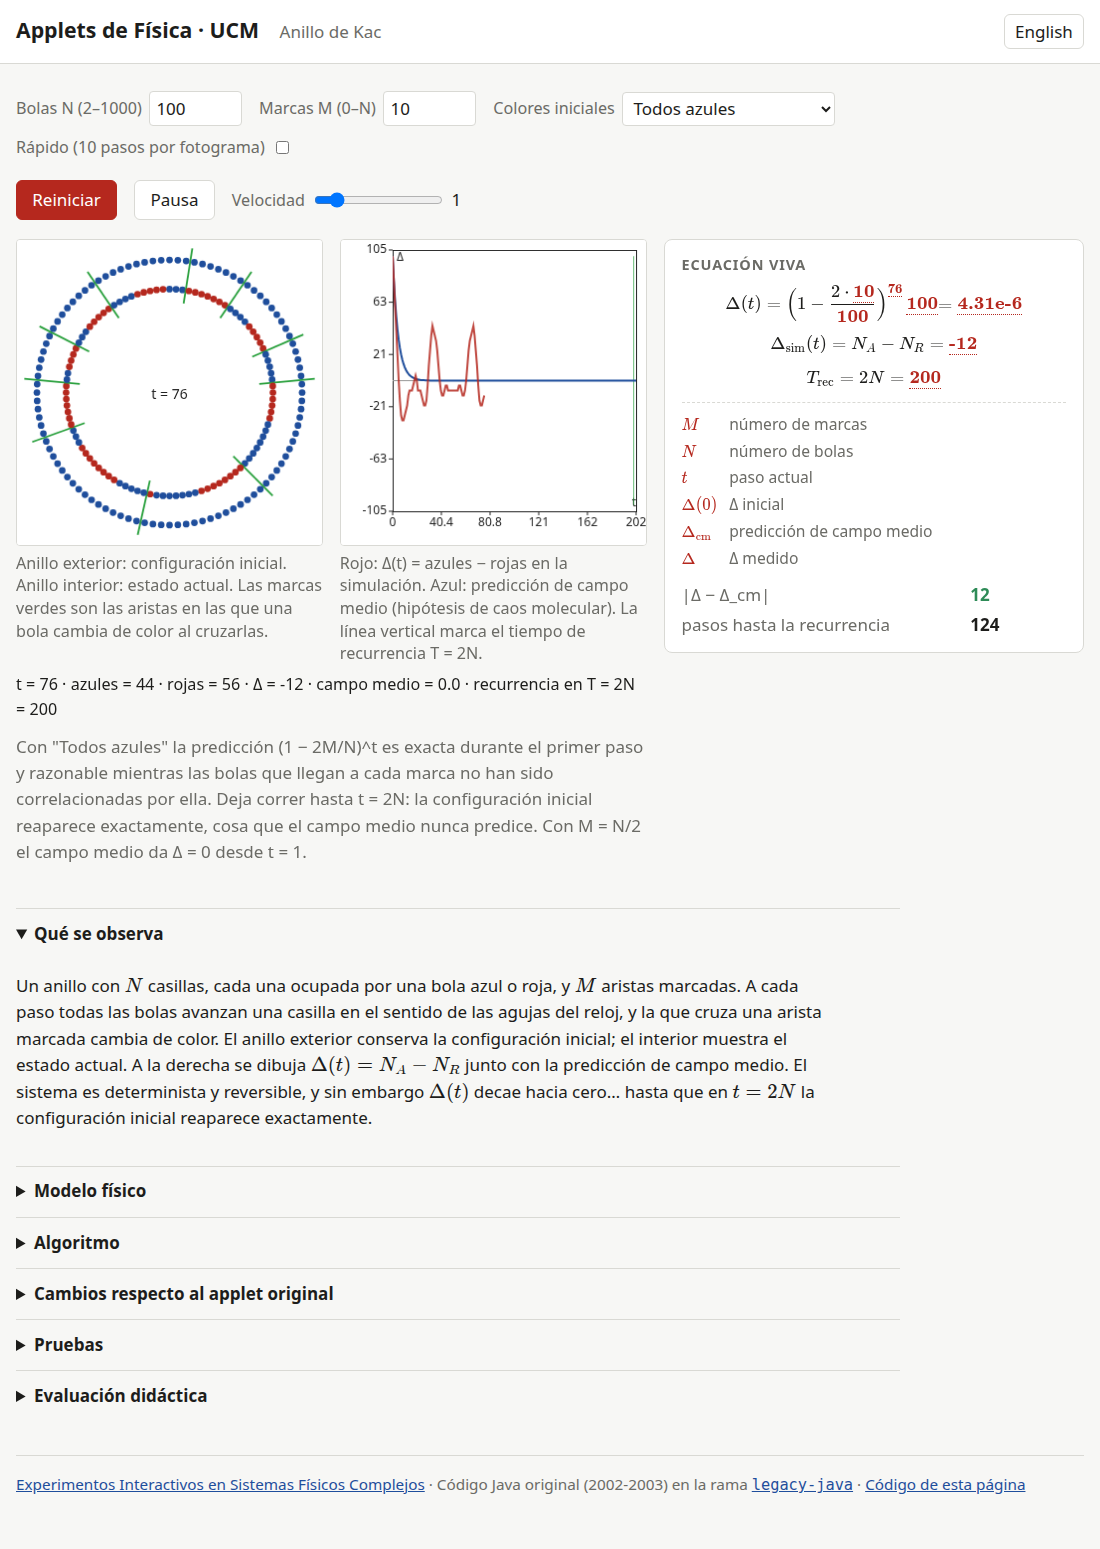
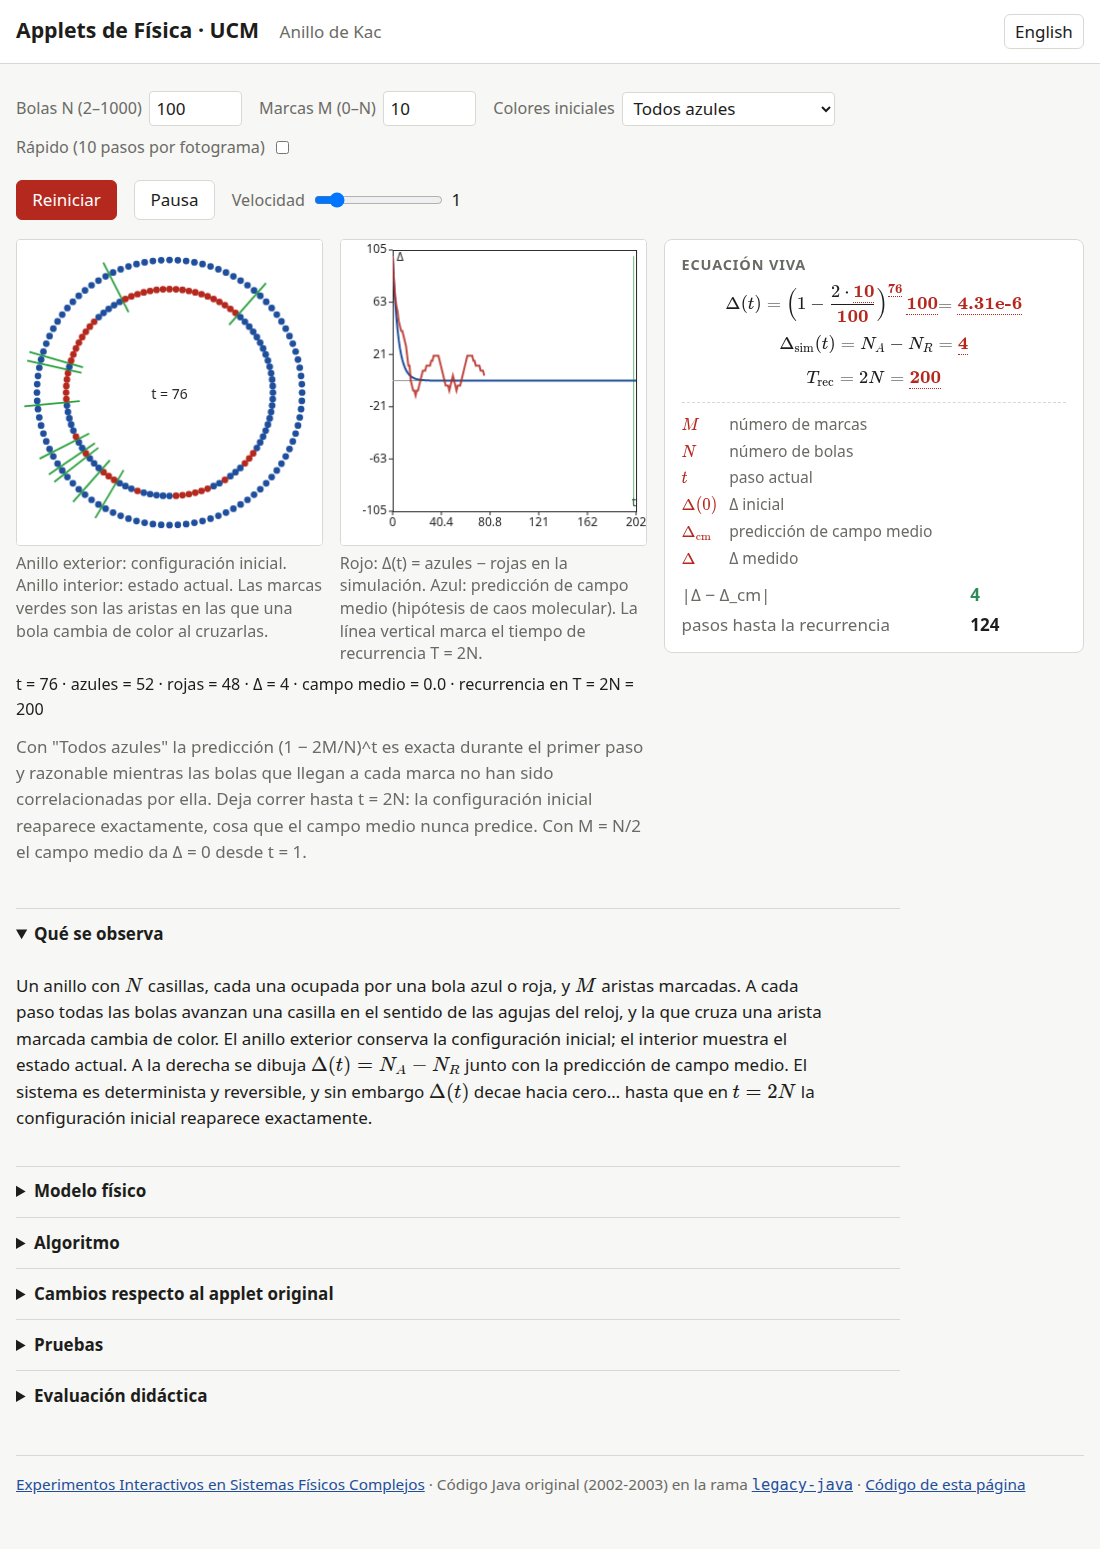
hero: slow, smooth Ising — one sweep per 8 frames at 30 fps, moving-average rendering, static with prefers-reduced-motion

diff --git a/lib/hero.js b/lib/hero.js
@@ -6,12 +6,12 @@ export function createIsing(nx, ny, K, rng = Math.random) {
   return { nx, ny, K, s, rng };
 }
 // One checkerboard Metropolis sweep (both sublattices), periodic boundaries.
-export function sweep(st) {
+export function sweep(st, y0 = 0, y1 = st.ny) {
   const { nx, ny, K, s, rng } = st;
   const w = new Float64Array(9); // exp(-2K·s·h) for h = -4..4 → index h+4
   for (let h = -4; h <= 4; h++) w[h + 4] = Math.exp(-2 * K * h);
   for (let parity = 0; parity < 2; parity++) {
-    for (let y = 0; y < ny; y++) {
+    for (let y = y0; y < y1; y++) {
       const up = ((y + ny - 1) % ny) * nx, dn = ((y + 1) % ny) * nx, row = y * nx;
       for (let x = (y + parity) & 1; x < nx; x += 2) {
         const i = row + x;
@@ -31,23 +31,35 @@ function parseColor(c) {
   return [200, 200, 200];
 }
 
-export function startHero(canvas, { nx = 192, ny = 108, K = 0.4407, sweepsPerFrame = 1 } = {}) {
+// Slow and smooth on purpose: a fraction of a sweep per frame (one full sweep every `framesPerSweep`
+// frames), and the picture is an exponential moving average of the spins so single flips do not
+// flicker; only the slow motion of the critical clusters is visible. With prefers-reduced-motion
+// the image is static.
+export function startHero(canvas, { nx = 192, ny = 108, K = 0.4407, framesPerSweep = 8, smoothing = 0.12, fps = 30 } = {}) {
   const st = createIsing(nx, ny, K);
   for (let i = 0; i < 40; i++) sweep(st); // start with critical-looking clusters
   const ctx = canvas.getContext('2d');
   const off = new OffscreenCanvas(nx, ny), octx = off.getContext('2d'), img = octx.createImageData(nx, ny);
-  let raf = 0, alive = true;
+  const avg = Float32Array.from(st.s);
+  const reduced = typeof matchMedia === 'function' && matchMedia('(prefers-reduced-motion: reduce)').matches;
+  let raf = 0, alive = true, band = 0, last = 0;
+  const rowsPerFrame = Math.max(1, Math.ceil(ny / framesPerSweep));
   const colours = () => {
     const cs = getComputedStyle(document.documentElement);
     return [parseColor(cs.getPropertyValue('--hero-a') || '#1f4e9c'), parseColor(cs.getPropertyValue('--hero-b') || '#f7f7f5')];
   };
   let [ca, cb] = colours(), frame = 0;
-  const draw = () => {
+  const draw = (t = 0) => {
     if (!alive) return;
-    for (let k = 0; k < sweepsPerFrame; k++) sweep(st);
+    if (t - last < 1000 / fps) { raf = requestAnimationFrame(draw); return; }
+    last = t;
+    if (!reduced) { const y1 = Math.min(ny, band + rowsPerFrame); sweep(st, band, y1); band = y1 >= ny ? 0 : y1; }
     if (frame++ % 60 === 0) [ca, cb] = colours();
-    const px = img.data;
-    for (let i = 0; i < st.s.length; i++) { const c = st.s[i] > 0 ? ca : cb; const o = i * 4; px[o] = c[0]; px[o + 1] = c[1]; px[o + 2] = c[2]; px[o + 3] = 255; }
+    const px = img.data, a = reduced ? 1 : smoothing;
+    for (let i = 0; i < st.s.length; i++) {
+      const v = (avg[i] += a * (st.s[i] - avg[i])), f = 0.5 * (v + 1), o = i * 4; // f = 1 → colour a, 0 → colour b
+      px[o] = cb[0] + f * (ca[0] - cb[0]); px[o + 1] = cb[1] + f * (ca[1] - cb[1]); px[o + 2] = cb[2] + f * (ca[2] - cb[2]); px[o + 3] = 255;
+    }
     octx.putImageData(img, 0, 0);
     const W = canvas.clientWidth || 800, H = canvas.clientHeight || 450;
     if (canvas.width !== W || canvas.height !== H) { canvas.width = W; canvas.height = H; }
